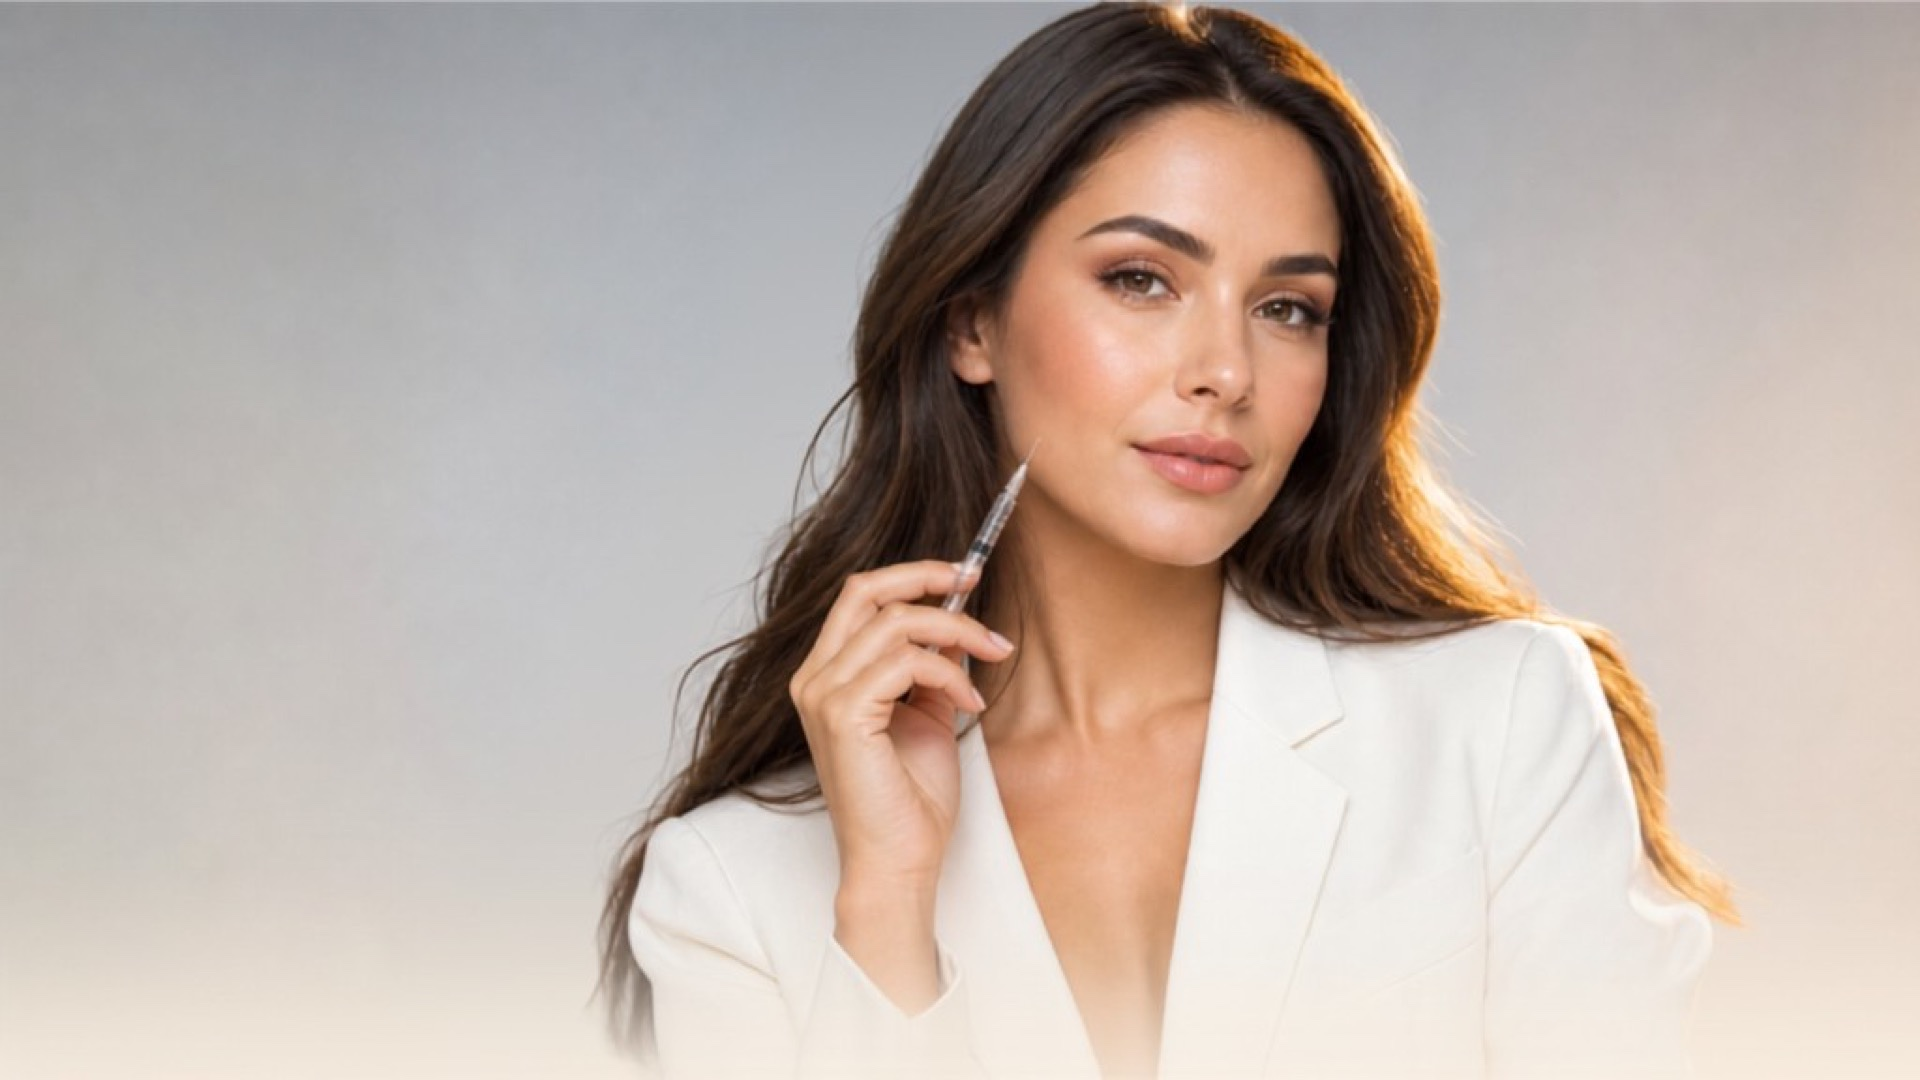
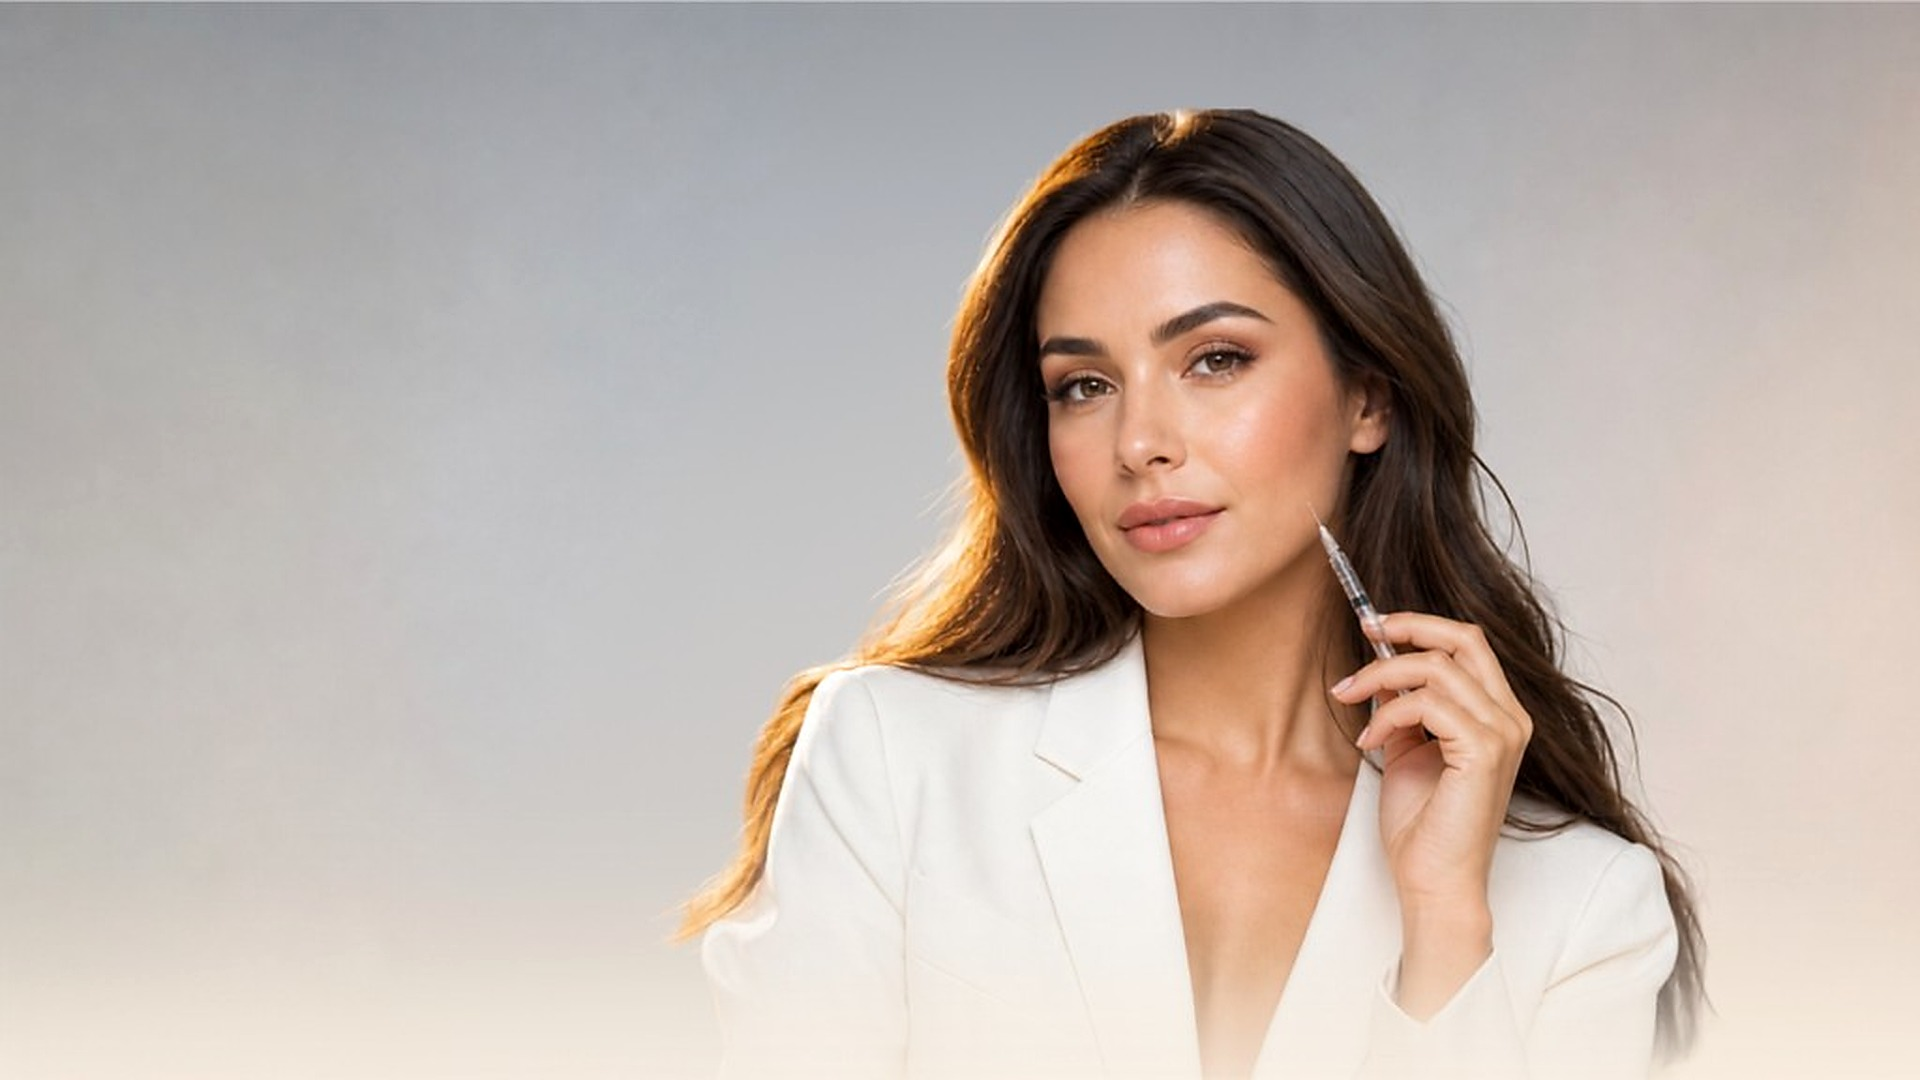
Nová hero fotka modelky s AI upscalingem na 1920×1080.
Lanczos upscale + sharpen, upravený object-position pro nový záběr.

diff --git a/public/lume/index.html b/public/lume/index.html
@@ -48,7 +48,7 @@ a{color:inherit;text-decoration:none}
 .rimg{position:absolute;inset:0;width:100%;height:100%;object-fit:cover;object-position:center center;display:block;z-index:1}
 .ph{z-index:0}
 .hero-photo:has(.rimg) .ph,.edi-model:has(.rimg) .ph,.svc-cover:has(.rimg) .ph,.excl-bg:has(.rimg) .ph,.ba:has(.rimg) .ph{display:none}
-.rimg--hero{object-position:88% 26%}
+.rimg--hero{object-position:58% 30%}
 .rimg--studio{object-position:center 26%;transform:scale(1.1);transform-origin:center center}
 .rimg--excl{object-position:center center}
 .rimg--ba{object-position:center 22%}
@@ -88,7 +88,7 @@ a{color:inherit;text-decoration:none}
   background:linear-gradient(165deg,var(--silver-top) 0%,var(--silver-mid) 24%,var(--silver-lo) 58%,var(--cream) 86%,#fbfaf6 100%)}
 .hero-photo{position:absolute;inset:0;z-index:1}
 .hero-photo .ph{position:absolute;inset:0;background:linear-gradient(160deg,#b7b9b6 0%,#cfd0cb 48%,#eceae4 100%)}
-.hero-photo .rimg{object-position:88% 26%}
+.hero-photo .rimg{object-position:58% 30%}
 /* white fade at the bottom so the gold title sits on light */
 .hero::before{content:'';position:absolute;left:0;right:0;bottom:0;height:50%;z-index:3;pointer-events:none;
   background:linear-gradient(to top,#fbfaf6 8%,rgba(251,250,246,.66) 36%,transparent 76%)}
@@ -109,7 +109,7 @@ a{color:inherit;text-decoration:none}
 .hero-foot{position:absolute;left:0;right:0;bottom:3.5%;z-index:5;text-align:center;font-family:var(--sans);font-weight:500;font-size:.58rem;letter-spacing:.24em;text-transform:uppercase;color:var(--ink2)}
 @media(max-width:880px){
   .hero{align-items:flex-end}
-  .hero-photo .rimg,.rimg--hero{object-position:80% 22%}
+  .hero-photo .rimg,.rimg--hero{object-position:55% 28%}
   .hero-fluted{left:72%}
   .hero-caps,.hero-date{top:12%}
   .hero-sub,.hero-cta{margin-left:0}
@@ -326,7 +326,7 @@ a{color:inherit;text-decoration:none}
 <section class="hero" id="top">
   <div class="hero-photo">
     <div class="ph"><svg class="figure" viewBox="0 0 24 24" fill="none"><circle cx="12" cy="7" r="4" stroke="currentColor" stroke-width="1.1"/><path d="M4 22c0-4.4 3.6-8 8-8s8 3.6 8 8" stroke="currentColor" stroke-width="1.1" stroke-linecap="round"/></svg><span class="ph-tag">Sem přijde fotka modelky</span></div>
-    <img class="rimg rimg--hero" src="/lume/img/hero-model.jpg?v=5" alt="LUMÉ — beauty model" loading="eager" decoding="async">
+    <img class="rimg rimg--hero" src="/lume/img/hero-model.jpg?v=6" alt="LUMÉ — beauty model" loading="eager" decoding="async">
   </div>
   <div class="hero-fluted" aria-hidden="true"></div>
 
